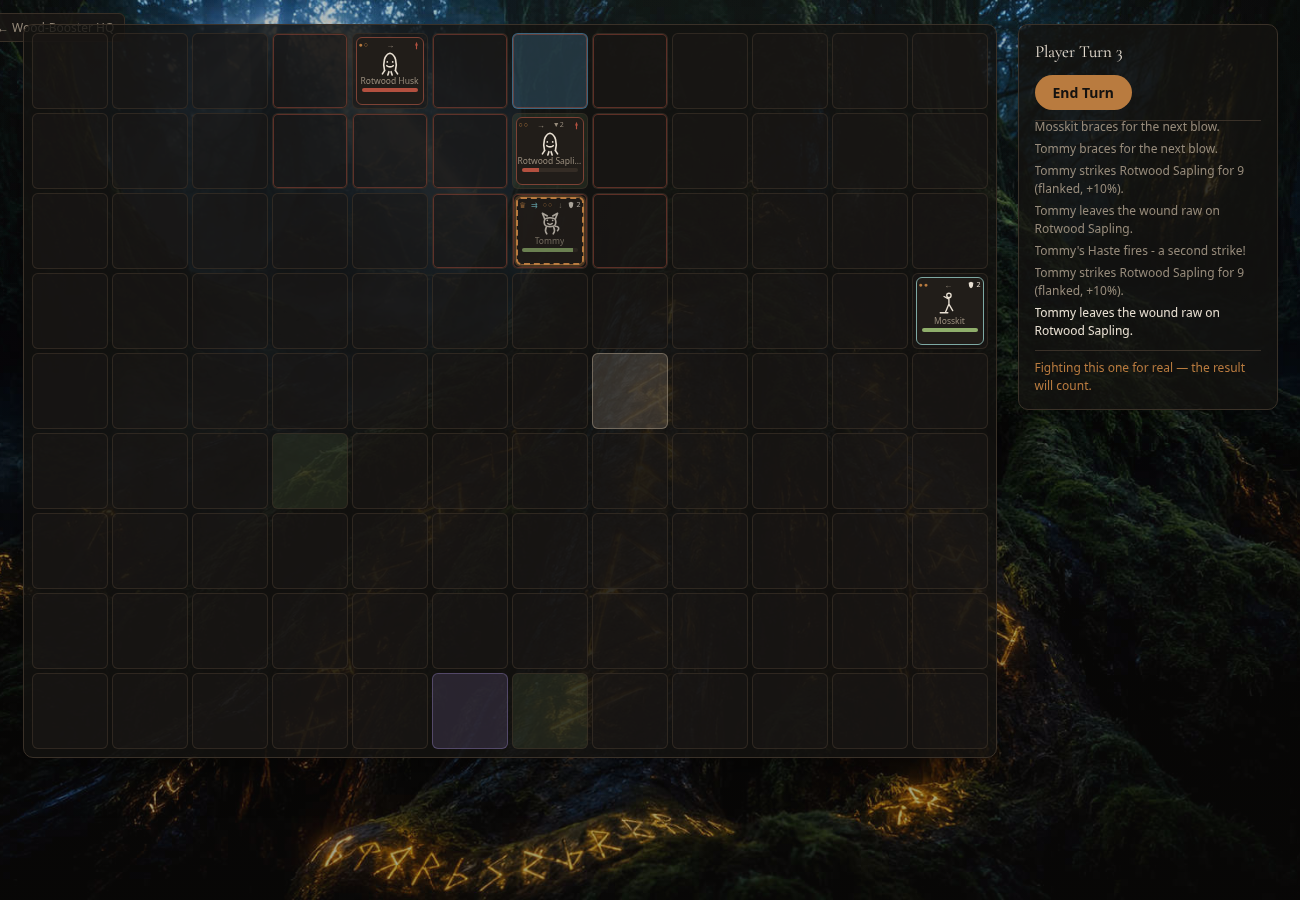
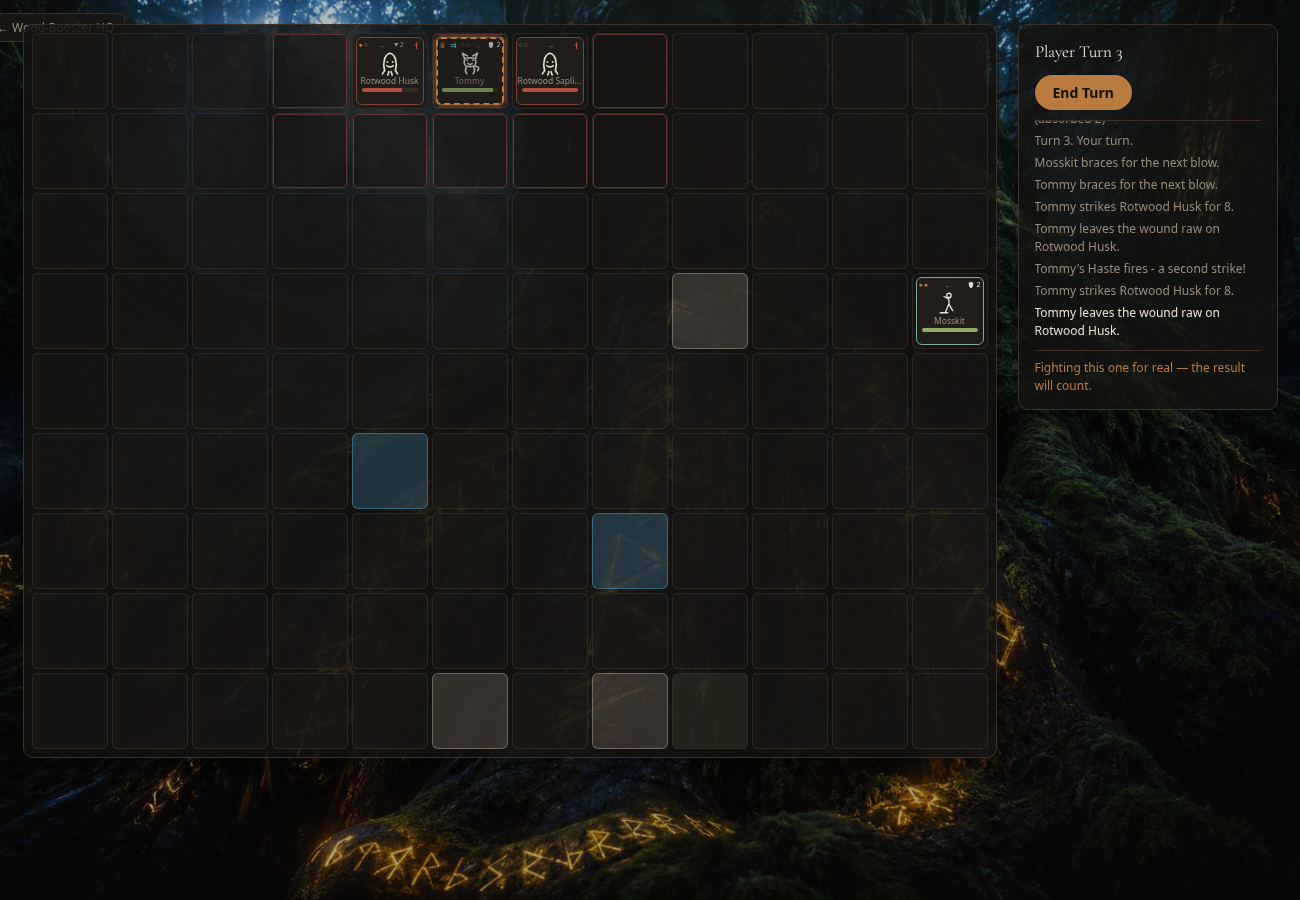
Hearthwood Frontier: per-class Facing bonuses/resistance
Movement PRD §4.2's last unbuilt piece. The PRD names 10 abstract
classes (Assassin/Duelist/Ranger/Striker/Hunter/Saboteur benefit;
Guardian/Sentinel/Warden/Juggernaut resist) but the 48 real recruitable
units use a completely different flavor taxonomy - mapped by theme onto
the real classes instead (every real tank-role class resists; the
dps-role classes with a precise/mobile/shadow flavor benefit, not every
dps class). Enemies and the Commander carry no className at all and
stay at the base Facing numbers - a stated scope limit.

A benefiting attacker adds +5pp/+10pp (side/back) on top of the base
+10/+25; a resisting defender subtracts the same amount - designed so
a benefiting attacker vs a resisting defender lands exactly back on the
base numbers, an intentional cancel-out.

Verify: both full existing suites ran clean before any new checks were
written (146/146 prototype, 24/24 real-battle, 0 regressions). Extended:
prototype 146->150, real-battle 24->25.

diff --git a/src/services/heartwood/tacticsEngine.js b/src/services/heartwood/tacticsEngine.js
@@ -626,6 +626,11 @@ function deriveTacticsUnit(defId, side, pos, uid, overrideDef = null) {
     // Updated by moveUnit whenever the unit actually moves; attacking
     // in place never turns a unit around.
     facing: side === "player" ? "W" : "E",
+    // Per-class Facing round: reads whatever units.js's own className
+    // field holds - always null for enemies/the Commander, whose defs
+    // carry no such field at all, the same "reads whatever's there,
+    // naturally absent elsewhere" pattern haste already uses above.
+    className: def.className || null,
     triggers,
     phases,
     phaseIndex: 0,
@@ -1015,14 +1020,56 @@ function classifyFacingAttack(attacker, defender) {
 // reactions" pieces are each tied to a mechanic this engine doesn't
 // have yet (Block-sunder, crits, Zone-of-Control reactions) - named,
 // deliberate deferrals, not part of this round's own multiplier.
-const FACING_MULTIPLIER = { front: 1, side: 1.1, back: 1.25 }
+const FACING_BASE_PP = { side: 10, back: 25 }
+
+// Per-class Facing round (Movement PRD §4.2's last unbuilt piece): the
+// PRD names 10 abstract classes (Assassin/Duelist/Ranger/Striker/
+// Hunter/Saboteur benefit; Guardian/Sentinel/Warden/Juggernaut resist),
+// but the 48 real recruitable units (units.js) use a completely
+// different flavor taxonomy - only "Guardian" literally matches. Mapped
+// by theme onto the real classes instead (confirmed directly by
+// reading every className+role pair in units.js): every real tank-role
+// class (wall/ward/bulwark-flavored) resists, and the dps-role classes
+// with a precise/mobile/shadow flavor (not every dps - blunt brawlers
+// like Berserker/Bruiser/Zealot stay neutral) benefit. Enemies/the
+// Commander carry no className at all, so they always stay neutral -
+// a stated scope limit, not a bug.
+const FLANK_BENEFIT_CLASSES = new Set([
+  "Nightblade", "Reaver", "Skirmisher", "Venomtongue", "Cutter",
+  "Silencer", "Umbramancer", "Frostblade", "Briarblade", "Marksman",
+])
+const FLANK_RESIST_CLASSES = new Set([
+  "Bulwark", "Crownguard", "Stonewarden", "Ironbark", "Graveguard",
+  "Decoy", "Keystone", "Keeper", "Bearer", "Guardian",
+])
+const FLANK_BENEFIT_PP = { side: 5, back: 10 }
+const FLANK_RESIST_PP = { side: 5, back: 10 }
+
+export function flankRole(className) {
+  if (!className) return null
+  if (FLANK_BENEFIT_CLASSES.has(className)) return "benefit"
+  if (FLANK_RESIST_CLASSES.has(className)) return "resist"
+  return null
+}
+
+// Composes so a benefiting attacker vs a resisting defender lands
+// exactly back on the base numbers - a nimble flanker gets no extra
+// edge attacking a naturally sturdy target, an intentional cancel-out,
+// not a coincidence.
+function facingMultiplier(attacker, defender, facing) {
+  if (facing === "front") return 1
+  let pp = FACING_BASE_PP[facing]
+  if (flankRole(attacker.className) === "benefit") pp += FLANK_BENEFIT_PP[facing]
+  if (flankRole(defender.className) === "resist") pp -= FLANK_RESIST_PP[facing]
+  return 1 + pp / 100
+}
 
 function modifiedAttackAmount(attacker, defender, baseAmount) {
   let amount = baseAmount
   if (attacker.woundedFury > 0 && attacker.hp < attacker.maxHp * 0.5) amount += 3
   if (attacker.weak > 0) amount = Math.floor(amount * 0.75)
   const facing = classifyFacingAttack(attacker, defender)
-  if (facing !== "front") amount = Math.round(amount * FACING_MULTIPLIER[facing])
+  if (facing !== "front") amount = Math.round(amount * facingMultiplier(attacker, defender, facing))
   if (attacker.execute > 0 && defender.hp <= defender.maxHp * 0.3) amount += attacker.execute
   if (attacker.shatter > 0 && defender.block > 0) amount += attacker.shatter
   return amount
@@ -1259,7 +1306,8 @@ export function attackUnit(state, actorId, targetId, opts = {}) {
   // modifiedAttackAmount already needed the same classification once
   // for the actual damage multiplier above.
   const facing = classifyFacingAttack(actor, target)
-  const facingNote = facing === "side" ? " (flanked, +10%)" : facing === "back" ? " (from behind, +25%)" : ""
+  const facingPct = facing !== "front" ? Math.round((facingMultiplier(actor, target, facing) - 1) * 100) : 0
+  const facingNote = facing === "side" ? ` (flanked, +${facingPct}%)` : facing === "back" ? ` (from behind, +${facingPct}%)` : ""
   next = { ...next, log: [...next.log, `${actor.name} strikes ${target.name} for ${remaining}${facingNote}.${absorbedNote}${fellNote}${describeRevive(revived, target.name)}`] }
   // The Rot's real mechanic: a poison-carrying enemy applies its stack on
   // EVERY landed hit, unconditional of how much Block absorbed that

diff --git a/src/components/heartwood/TacticsBoard.jsx b/src/components/heartwood/TacticsBoard.jsx
@@ -25,6 +25,7 @@ import {
   previewEnemyIntents,
   previewChargeThreat,
   zoneOfControlCells,
+  flankRole,
 } from "../../services/heartwood/tacticsEngine"
 import { motion } from "framer-motion"
 
@@ -218,6 +219,16 @@ export default function TacticsBoard({
                 {unit.haste && (
                   <span className="hwt-haste-badge" title="Haste - attacks a second time whenever it lands an attack">
                     ⇉
+                  </span>
+                )}
+                {flankRole(unit.className) === "benefit" && (
+                  <span className="hwt-flank-benefit-badge" title={`${unit.className} - deals +5%/+10% extra when attacking from the side/behind`}>
+                    ⚔
+                  </span>
+                )}
+                {flankRole(unit.className) === "resist" && (
+                  <span className="hwt-flank-resist-badge" title={`${unit.className} - takes 5%/10% less when hit from the side/behind`}>
+                    🛡
                   </span>
                 )}
                 <span className="hwt-ap-pips" title={`${unit.ap}/${unit.apMax} AP`}>

diff --git a/src/components/heartwood/heartwood-tactics.css b/src/components/heartwood/heartwood-tactics.css
@@ -279,6 +279,14 @@
   font-size: 7px;
   color: var(--hw-moss);
 }
+.hwt-flank-benefit-badge {
+  font-size: 8px;
+  color: var(--hw-curse);
+}
+.hwt-flank-resist-badge {
+  font-size: 8px;
+  color: var(--hw-stone);
+}
 
 /* The enemy intent telegraph - what this enemy plans to do this coming
    enemy phase, visible during the player's own turn. */
